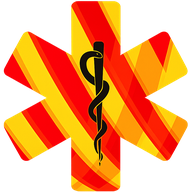
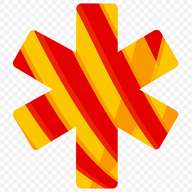
feat(branding): icono definitivo (Star of Life rayado)

diff --git a/sw.js b/sw.js
@@ -1,5 +1,5 @@
 /* Service worker — cache-first del shell para uso offline. */
-var CACHE = "vital-assist-v29";
+var CACHE = "vital-assist-v30";
 var ASSETS = [
   "./", "./index.html", "./styles.css", "./app.js", "./topics-data.js", "./scales-data.js", "./drugs-index.js",
   "./drug-aliases.js", "./scales-extra.js", "./topics-extra.js", "./ddx-demo.js",
